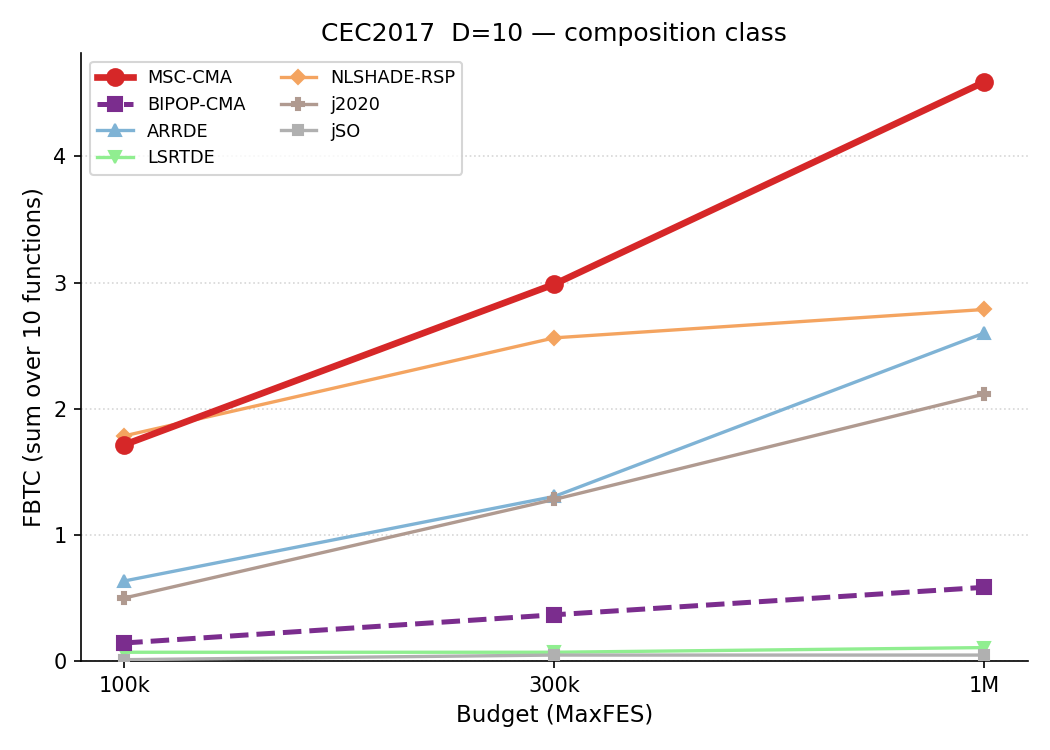
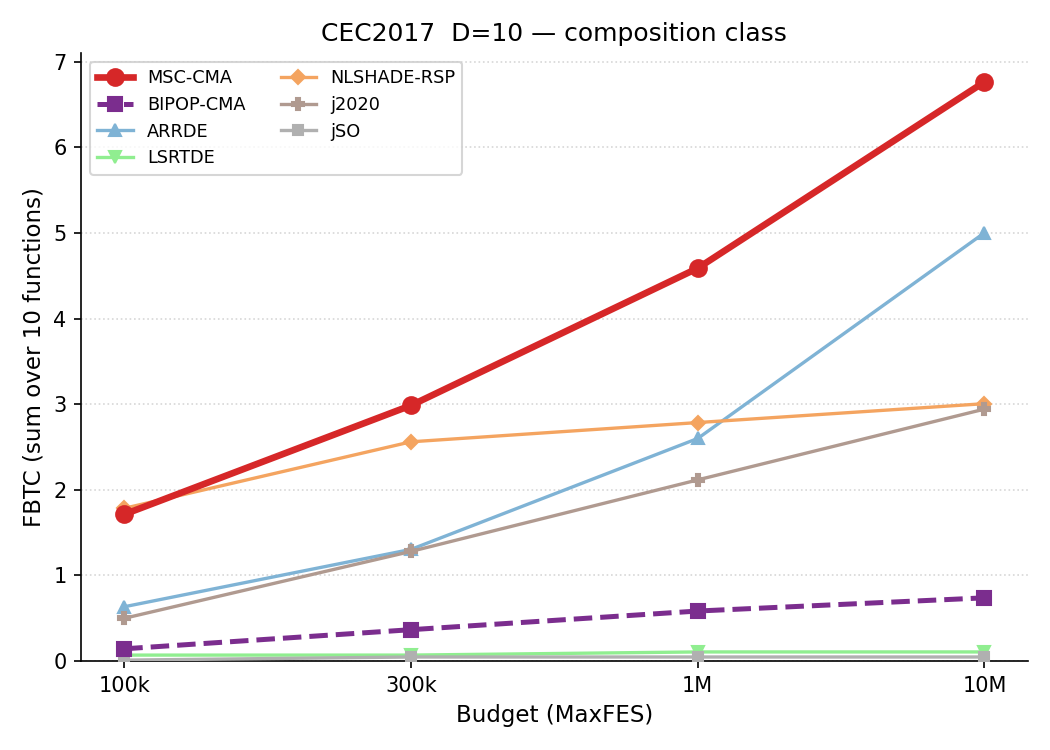
cec2017/d10: extend composition to 10M (budget scaling + 10M ranking)

diff --git a/experiments/cec2017/d10/README.md b/experiments/cec2017/d10/README.md
@@ -40,7 +40,7 @@ FBTC by budget, monotone envelope (running maximum over budgets). Higher is bett
 
 ## Ranking across metrics (budget 1M)
 
-Same parallel-coordinate rank, recomputed at 1,000,000 evaluations. Extended budget = the largest with full seven-algorithm coverage for this cell; only classes with complete 1M data are shown. MSC-CMA in red.
+Same parallel-coordinate rank, recomputed at 1,000,000 evaluations. Only classes with full seven-algorithm coverage at 1M are shown. MSC-CMA in red.
 
 <table>
 <tr>
@@ -51,6 +51,19 @@ Same parallel-coordinate rank, recomputed at 1,000,000 evaluations. Extended bud
 <tr>
 <td align="center">Basic</td>
 <td align="center">Hybrid</td>
+<td align="center">Composition</td>
+</tr>
+</table>
+
+## Ranking across metrics (budget 10M)
+
+Same parallel-coordinate rank, recomputed at 10,000,000 evaluations. Only classes with full seven-algorithm coverage at 10M are shown. MSC-CMA in red.
+
+<table>
+<tr>
+<td><img src="rank_composition_10M.png" width="320" alt="Composition"></td>
+</tr>
+<tr>
 <td align="center">Composition</td>
 </tr>
 </table>